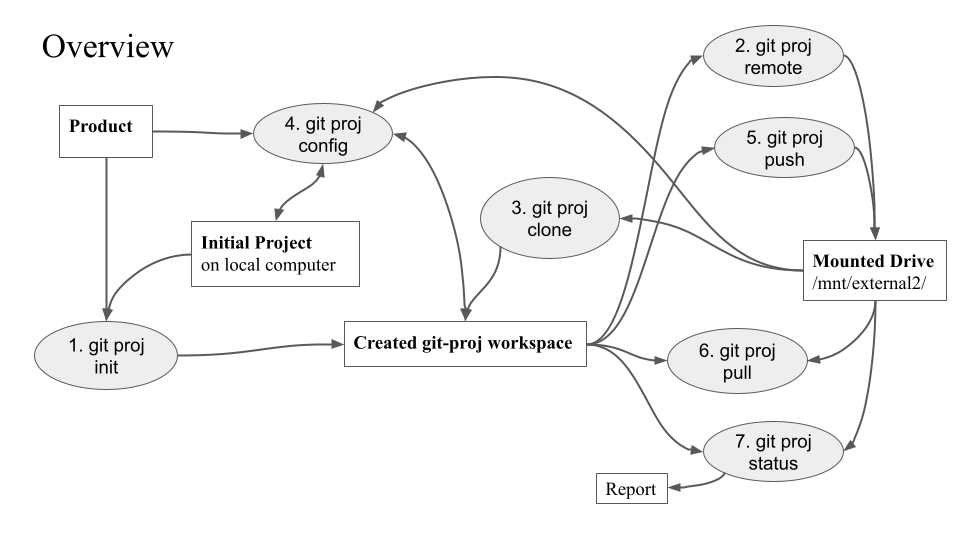
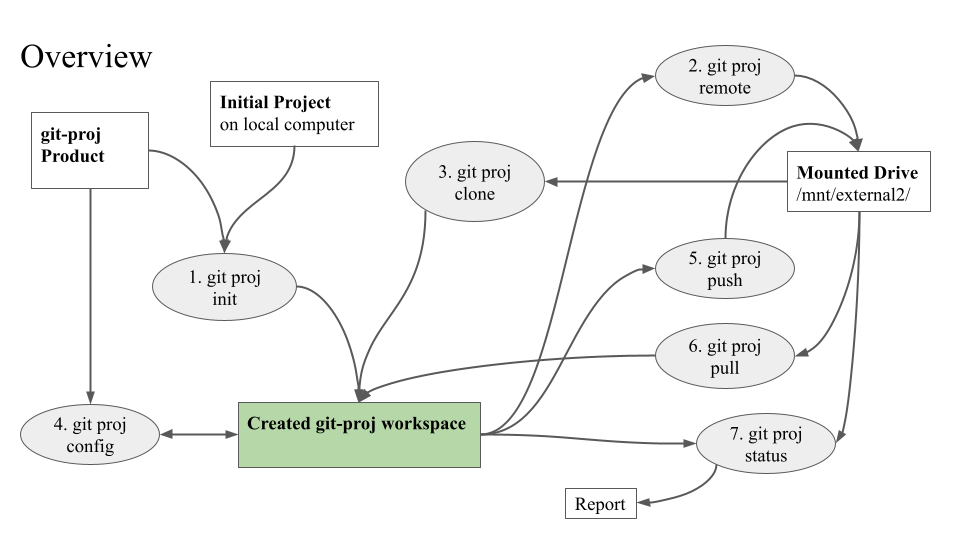
Updated overview image

diff --git a/README.md b/README.md
@@ -70,6 +70,8 @@ remotes across a network.
 
 [<img src="image/git-proj_User_DFD.png" width="600"/>](https://docs.google.com/presentation/d/15JqVxkBczpMKwtJI64FNU-2ixbXCh2ijwS3vfIBt4ko/edit#slide=id.p)
 
+Click on the image above to see more details.
+
 ## User Docs
 
 The user docs can be browsed online at:
